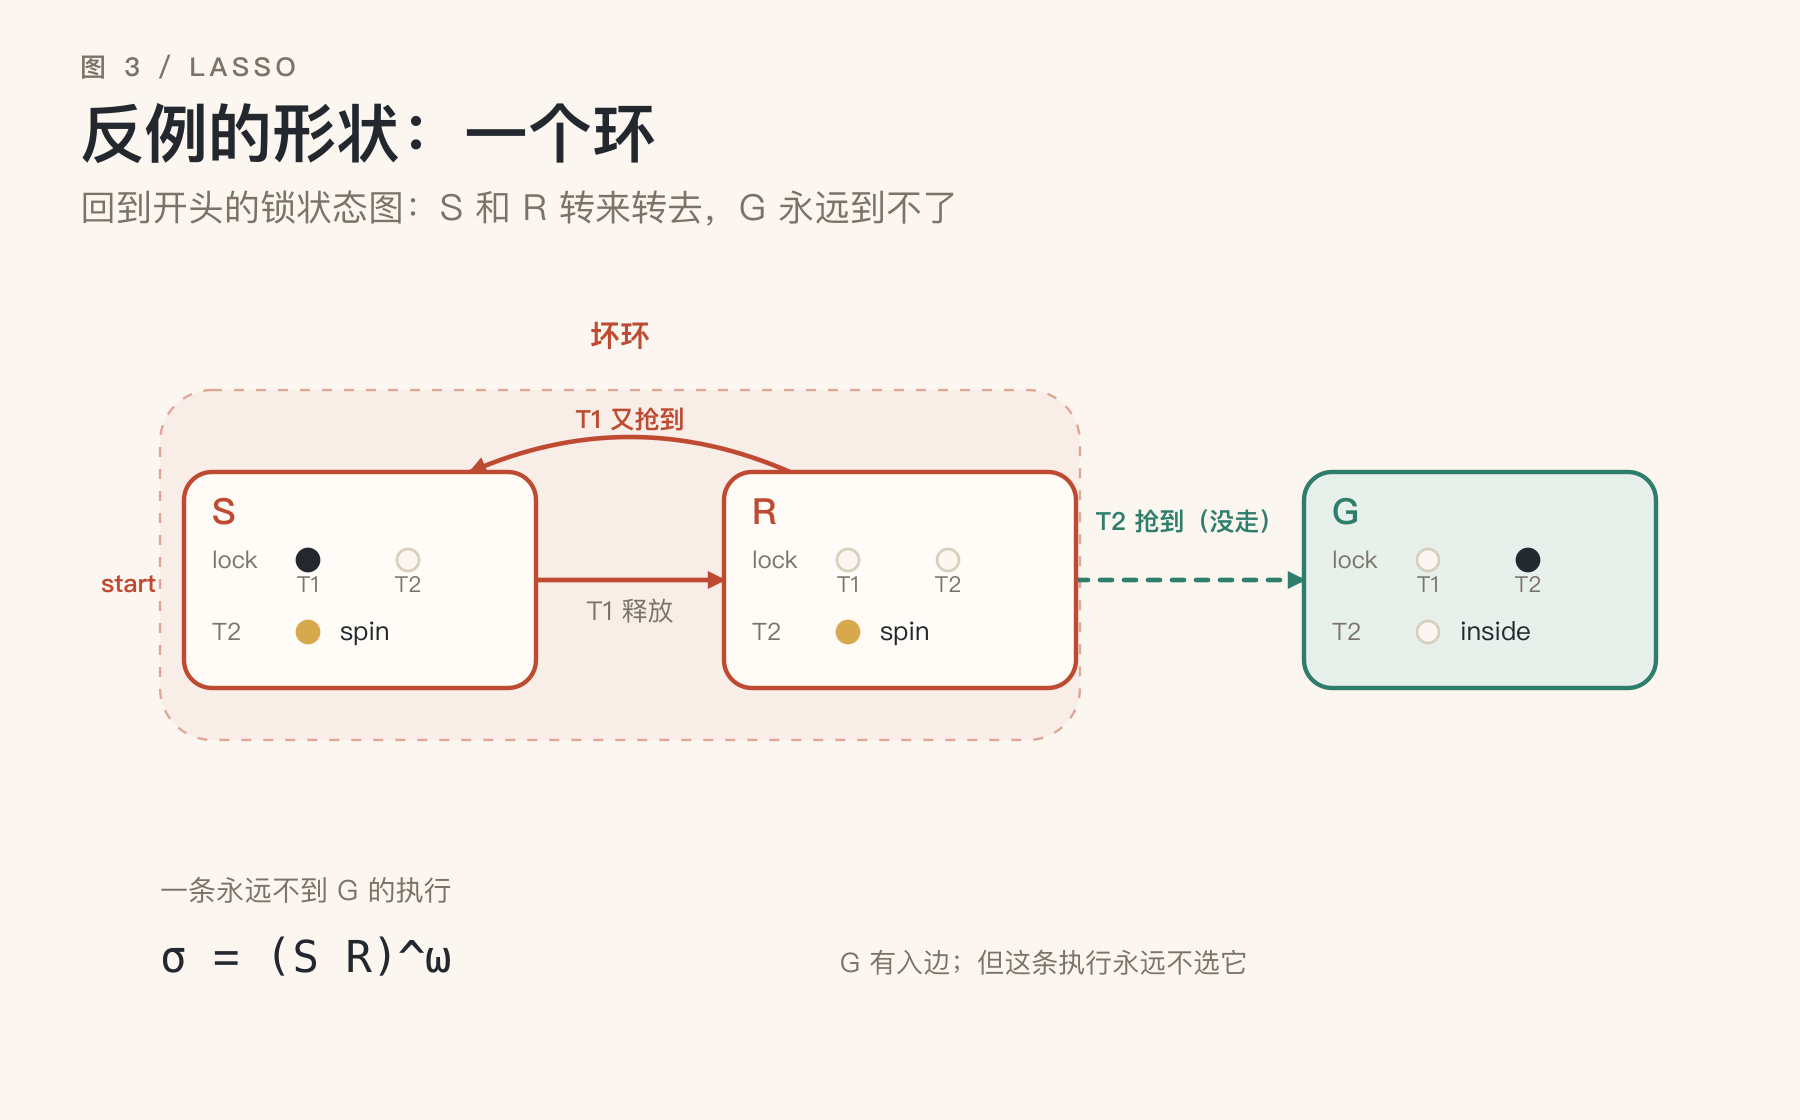
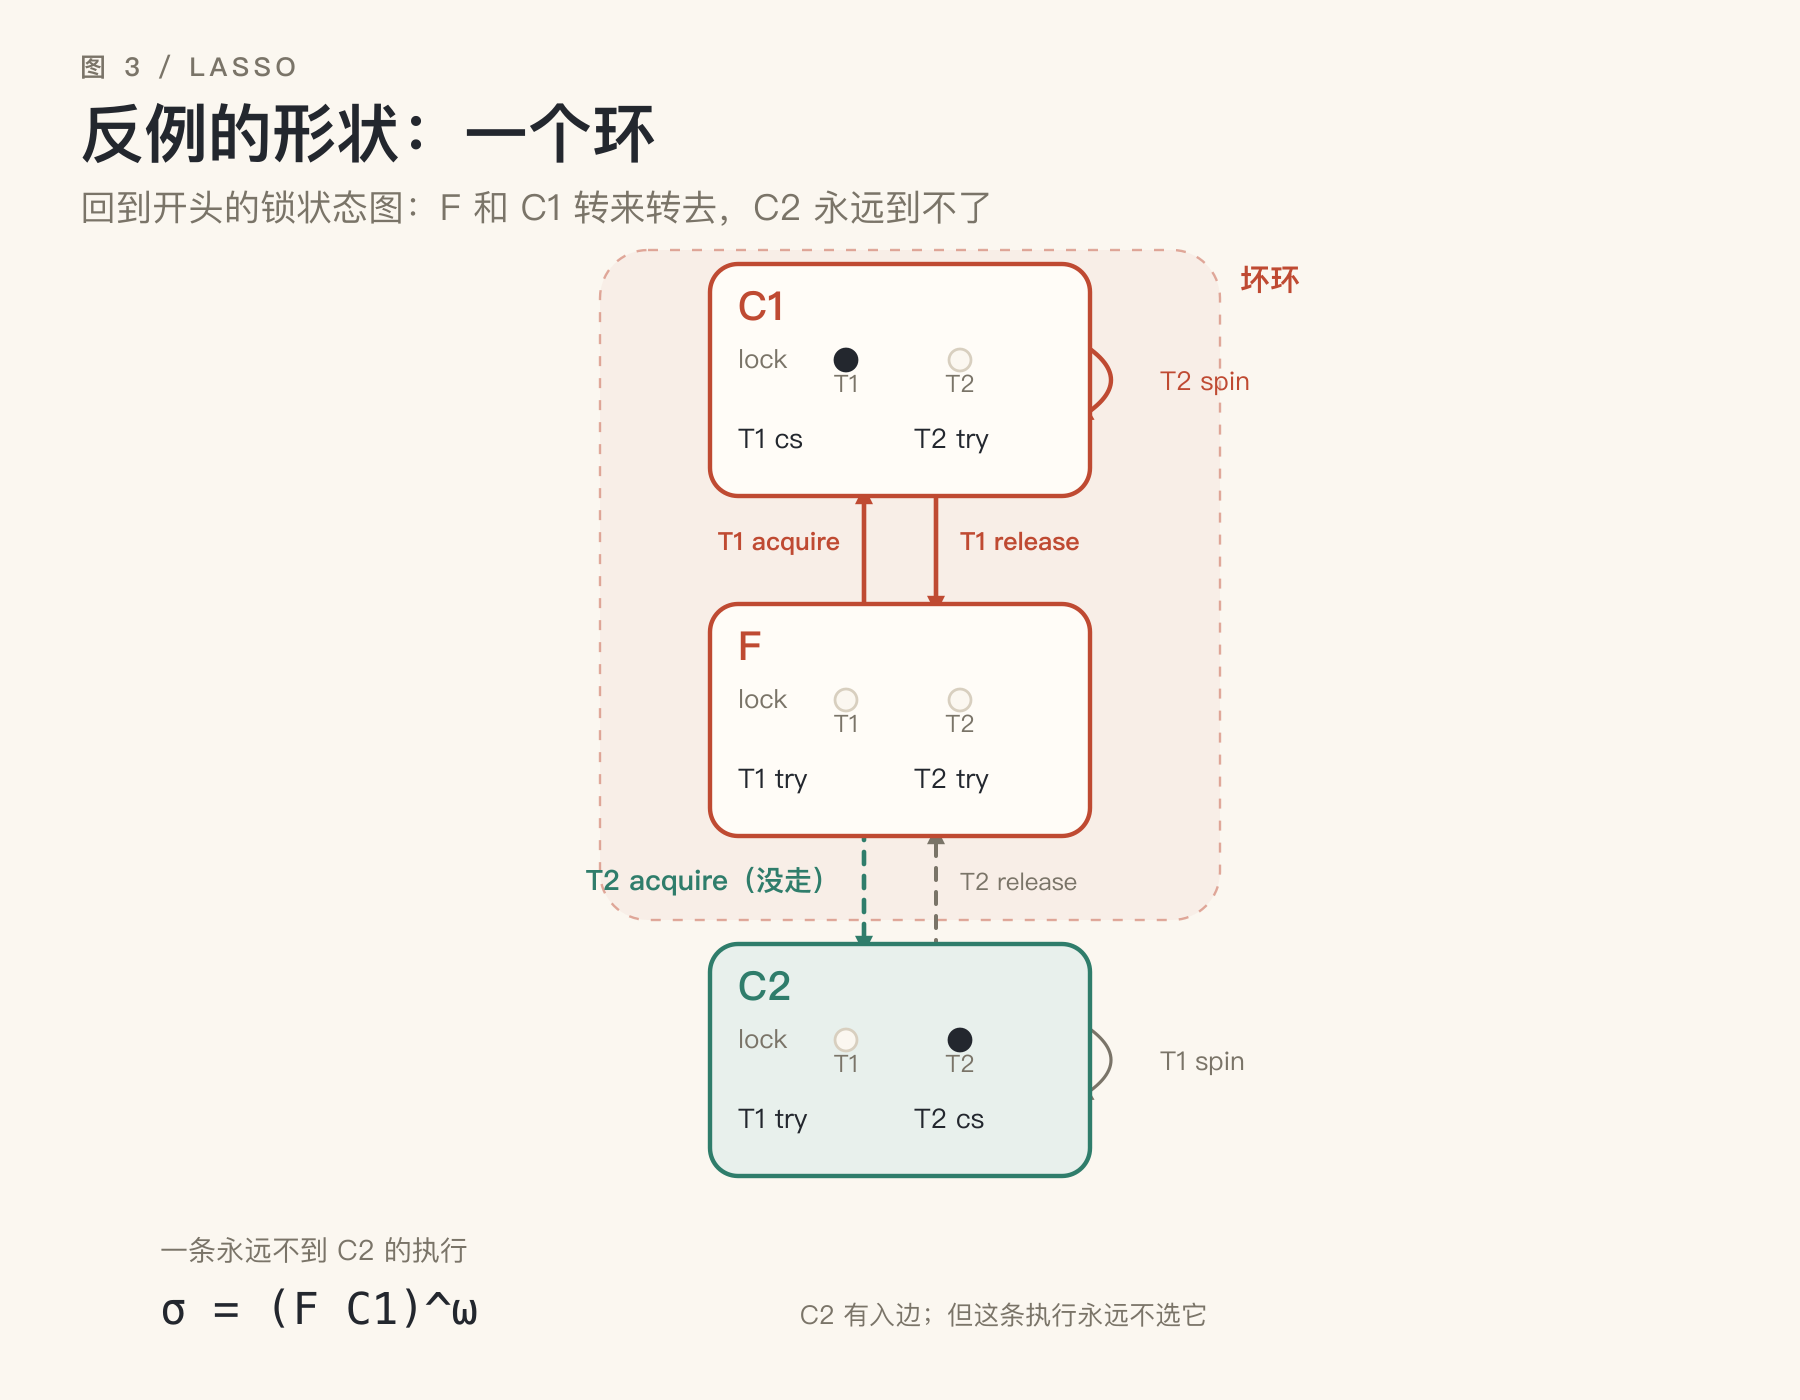
docs: 修正完整锁状态图，补全 CTL 四种路径

diff --git a/figures/build.py b/figures/build.py
@@ -153,28 +153,25 @@ def title(s, t, sub=None):
 
 
 # ---------------------------------------------------------------- lock state box
-def lock_box(s, cx, cy, name, lock, t2, stroke=RED, title_fill=RED,
+def lock_box(s, cx, cy, name, lock, pc1, pc2, stroke=RED, title_fill=RED,
              fill=PANEL, rank=None):
-    w, h = 176, 108
+    w, h = 190, 116
     x, y = cx - w / 2, cy - h / 2
     s.rect(x, y, w, h, rx=14, fill=fill, stroke=stroke, sw=2.2)
-    s.text(x + 14, y + 26, name, size=18, fill=title_fill, weight="700")
-    s.text(x + 14, y + 48, "lock", size=12, fill=MUTED)
-    for lab, dx in (("T1", 62), ("T2", 112)):
-        ox, oy = x + dx, y + 44
+    s.text(x + 14, y + 28, name, size=20, fill=title_fill, weight="700")
+    s.text(x + 14, y + 52, "lock", size=13, fill=MUTED)
+    for lab, dx in (("T1", 68), ("T2", 125)):
+        ox, oy = x + dx, y + 48
         owned = (lock == lab)
         s.circle(ox, oy, 5.5, fill=INK if owned else PAPER,
                  stroke=INK if owned else LINE, sw=1.4)
-        s.text(ox, y + 60, lab, size=11, fill=MUTED, anchor="middle")
-    s.text(x + 14, y + 84, "T2", size=12, fill=MUTED)
-    spin = (t2 == "spin")
-    s.circle(x + 62, y + 80, 5.5, fill=AMBER if spin else PAPER,
-             stroke=AMBER if spin else LINE, sw=1.4)
-    s.text(x + 78, y + 84, "spin" if spin else "inside", size=13, fill=INK)
+        s.text(ox, y + 64, lab, size=12, fill=MUTED, anchor="middle")
+    s.text(x + 14, y + 92, f"T1 {pc1}", size=13.5, fill=INK)
+    s.text(x + 102, y + 92, f"T2 {pc2}", size=13.5, fill=INK)
     if rank is not None:
         bx, by = x + w - 14, y + 14
         s.circle(bx, by, 10.5, fill=PAPER, stroke=stroke, sw=1.3)
-        s.text(bx, by + 4, rank, size=11.5, fill=title_fill,
+        s.text(bx, by + 4, rank, size=12, fill=title_fill,
                anchor="middle", weight="600")
 
 
@@ -237,71 +234,74 @@ def fig1():
 
 # ---------------------------------------------------------------- figure 2
 def fig_open():
-    h = 440
+    h = 700
     s = SVG(W, h)
     kicker(s, "MUTEX / STATE GRAPH")
     title(s, "锁的状态图", "T1 和 T2 抢一把 test-and-set 自旋锁")
 
-    S, R, G = (170, 250), (420, 250), (700, 250)
-    s.rect(70, 175, 460, 155, rx=24, fill=RED, stroke="none", opacity=0.045)
-    s.rect(70, 175, 460, 155, rx=24, fill="none", stroke=RED, sw=1.2,
-           dash="5 6", opacity=0.4)
-    s.text(300, 160, "T2 永远等下去", size=14, fill=RED, anchor="middle", weight="600")
+    C1, F, C2 = (450, 190), (450, 360), (450, 530)
+    s.arrow((432, 306), (432, 244), color=INK, sw=2.2)
+    s.arrow((468, 244), (468, 306), color=INK, sw=2.2)
+    s.arrow((432, 414), (432, 476), color=GREEN, sw=2.2, dash="6 6")
+    s.arrow((468, 476), (468, 414), color=MUTED, sw=2.0, dash="6 6")
+    s.arrow((538, 170), (538, 210), curve=-35, color=MUTED, sw=2)
+    s.arrow((538, 510), (538, 550), curve=-35, color=MUTED, sw=2)
 
-    s.arrow((S[0] + 88, S[1]), (R[0] - 88, R[1]), color=INK, sw=2.2)
-    s.arrow((R[0] - 55, R[1] - 54), (S[0] + 55, S[1] - 54),
-            curve=35, color=INK, sw=2.2)
-    s.arrow((R[0] + 88, R[1]), (G[0] - 88, G[1]), color=GREEN, sw=2.2, dash="6 6")
-    s.text(295, 220, "T1 抢到", size=13.5, fill=INK, anchor="middle", weight="600")
-    s.text(295, 270, "T1 释放", size=13.5, fill=MUTED, anchor="middle")
-    s.text(560, 270, "T2 抢到", size=13.5, fill=GREEN, anchor="middle", weight="600")
+    s.text(420, 275, "T1 acquire", size=14, fill=INK, anchor="end", weight="600")
+    s.text(480, 275, "T1 release", size=13.5, fill=MUTED, anchor="start")
+    s.text(420, 445, "T2 acquire", size=14, fill=GREEN, anchor="end", weight="600")
+    s.text(480, 445, "T2 release", size=13.5, fill=MUTED, anchor="start")
+    s.text(580, 195, "T2 spin", size=13, fill=MUTED)
+    s.text(580, 535, "T1 spin", size=13, fill=MUTED)
 
-    lock_box(s, *S, "S", "T1", "spin")
-    lock_box(s, *R, "R", "free", "spin")
-    lock_box(s, *G, "G", "T2", "inside", stroke=GREEN, title_fill=GREEN,
+    lock_box(s, *C1, "C1", "T1", "cs", "try")
+    lock_box(s, *F, "F", "free", "try", "try")
+    lock_box(s, *C2, "C2", "T2", "try", "cs", stroke=GREEN, title_fill=GREEN,
              fill="#E8F0EC")
 
-    s.text(70, 390, "● = 真（持有 / 等待）    ○ = 假（空闲 / 运行）",
-           size=12.5, fill=MUTED)
+    s.text(60, 660, "lock：● = 持有，○ = 空闲；T1/T2：try = 自旋，cs = 临界区",
+           size=12, fill=MUTED)
     s.save("lock-state-graph")
 
 
 def fig2():
-    h = 560
+    h = 700
     s = SVG(W, h)
     kicker(s, "图 3 / LASSO")
     title(s, "反例的形状：一个环",
-          "回到开头的锁状态图：S 和 R 转来转去，G 永远到不了")
+          "回到开头的锁状态图：F 和 C1 转来转去，C2 永远到不了")
 
-    S, R, G = (180, 290), (450, 290), (740, 290)
-    s.rect(80, 195, 460, 175, rx=26, fill=RED, stroke="none", opacity=0.05)
-    s.rect(80, 195, 460, 175, rx=26, fill="none", stroke=RED, sw=1.2,
+    C1, F, C2 = (450, 190), (450, 360), (450, 530)
+    s.rect(300, 125, 310, 335, rx=24, fill=RED, stroke="none", opacity=0.05)
+    s.rect(300, 125, 310, 335, rx=24, fill="none", stroke=RED, sw=1.2,
            dash="5 6", opacity=0.45)
-    s.text(310, 173, "坏环", size=15, fill=RED, anchor="middle", weight="700")
+    s.text(620, 145, "坏环", size=15, fill=RED, anchor="start", weight="700")
 
-    s.arrow((S[0] + 88, S[1]), (R[0] - 88, R[1]), color=RED, sw=2.3)
-    s.arrow((R[0] - 55, R[1] - 54), (S[0] + 55, S[1] - 54),
-            curve=35, color=RED, sw=2.3)
-    s.arrow((R[0] + 88, R[1]), (G[0] - 88, G[1]), color=GREEN, sw=2.3, dash="6 6")
+    s.arrow((432, 306), (432, 244), color=RED, sw=2.3)
+    s.arrow((468, 244), (468, 306), color=RED, sw=2.3)
+    s.arrow((432, 414), (432, 476), color=GREEN, sw=2.3, dash="6 6")
+    s.arrow((468, 476), (468, 414), color=MUTED, sw=2.0, dash="6 6")
+    s.arrow((538, 170), (538, 210), curve=-35, color=RED, sw=2.2)
+    s.arrow((538, 510), (538, 550), curve=-35, color=MUTED, sw=1.6)
 
-    s.text(315, 214, "T1 又抢到", size=12.5, fill=RED, anchor="middle", weight="600")
-    s.text(315, 310, "T1 释放", size=13, fill=MUTED, anchor="middle")
-    s.text(595, 265, "T2 抢到（没走）", size=12.5, fill=GREEN,
-           anchor="middle", weight="600")
+    s.text(420, 275, "T1 acquire", size=12.5, fill=RED, anchor="end", weight="600")
+    s.text(480, 275, "T1 release", size=12.5, fill=RED, anchor="start", weight="600")
+    s.text(420, 445, "T2 acquire（没走）", size=14, fill=GREEN, anchor="end", weight="600")
+    s.text(480, 445, "T2 release", size=12, fill=MUTED, anchor="start")
+    s.text(580, 195, "T2 spin", size=13, fill=RED)
+    s.text(580, 535, "T1 spin", size=13, fill=MUTED)
 
-    lock_box(s, *S, "S", "T1", "spin")
-    lock_box(s, *R, "R", "free", "spin")
-    lock_box(s, *G, "G", "T2", "inside", stroke=GREEN, title_fill=GREEN,
+    lock_box(s, *C1, "C1", "T1", "cs", "try")
+    lock_box(s, *F, "F", "free", "try", "try")
+    lock_box(s, *C2, "C2", "T2", "try", "cs", stroke=GREEN, title_fill=GREEN,
              fill="#E8F0EC")
-    s.text(78, 296, "start", size=12.5, fill=RED, anchor="end", weight="600")
 
-    s.text(80, 450, "一条永远不到 G 的执行", size=14, fill=MUTED)
-    s.text(80, 486, "σ = (S R)^ω", size=22, fill=INK, family=MONO)
-    s.text(420, 486, "G 有入边；但这条执行永远不选它", size=13.5, fill=MUTED)
+    s.text(80, 630, "一条永远不到 C2 的执行", size=14, fill=MUTED)
+    s.text(80, 662, "σ = (F C1)^ω", size=22, fill=INK, family=MONO)
+    s.text(400, 662, "C2 有入边；但这条执行永远不选它", size=13, fill=MUTED)
     s.save("03-lasso")
 
 
-# ---------------------------------------------------------------- figure 3
 def fig3():
     h = 565
     s = SVG(W, h)
@@ -357,35 +357,38 @@ def fig3():
 
 # ---------------------------------------------------------------- figure 4
 def fig4():
-    h = 560
+    h = 710
     s = SVG(W, h)
     kicker(s, "图 5 / ATTRACTOR")
     title(s, "点亮：从目标倒着长",
-          "同一张锁状态图：只有 G 被点亮")
+          "同一张锁状态图：只有 C2 被点亮")
 
-    S, R, G = (180, 290), (450, 290), (740, 290)
-    s.rect(80, 210, 460, 160, rx=26, fill=RED, stroke="none", opacity=0.05)
-    s.rect(80, 210, 460, 160, rx=26, fill="none", stroke=RED, sw=1.2,
+    C1, F, C2 = (450, 190), (450, 360), (450, 530)
+    s.rect(300, 125, 310, 335, rx=24, fill=RED, stroke="none", opacity=0.05)
+    s.rect(300, 125, 310, 335, rx=24, fill="none", stroke=RED, sw=1.2,
            dash="5 6", opacity=0.45)
-    s.text(310, 188, "点不亮：坏环", size=15, fill=RED, anchor="middle", weight="700")
+    s.text(620, 145, "点不亮：坏环", size=15, fill=RED, anchor="start", weight="700")
 
-    s.arrow((S[0] + 88, S[1]), (R[0] - 88, R[1]), color=RED, sw=2.3)
-    s.arrow((R[0] - 55, R[1] - 54), (S[0] + 55, S[1] - 54),
-            curve=35, color=RED, sw=2.3)
-    s.arrow((R[0] + 88, R[1]), (G[0] - 88, G[1]), color=MUTED, sw=2.0, dash="6 6")
-    s.text(595, 265, "有出口，但没走", size=12.5, fill=MUTED,
-           anchor="middle")
+    s.arrow((432, 306), (432, 244), color=RED, sw=2.3)
+    s.arrow((468, 244), (468, 306), color=RED, sw=2.3)
+    s.arrow((432, 414), (432, 476), color=MUTED, sw=2.0, dash="6 6")
+    s.arrow((468, 476), (468, 414), color=MUTED, sw=1.6, dash="6 6")
+    s.arrow((538, 170), (538, 210), curve=-35, color=RED, sw=2.0)
+    s.arrow((538, 510), (538, 550), curve=-35, color=MUTED, sw=1.6)
 
-    lock_box(s, *S, "S", "T1", "spin", rank="∞")
-    lock_box(s, *R, "R", "free", "spin", rank="∞")
-    lock_box(s, *G, "G", "T2", "inside", stroke=GREEN, title_fill=GREEN,
+    s.text(420, 445, "有出口，但没走", size=13, fill=MUTED, anchor="end")
+    s.text(580, 195, "T2 spin", size=13, fill=RED)
+
+    lock_box(s, *C1, "C1", "T1", "cs", "try", rank="∞")
+    lock_box(s, *F, "F", "free", "try", "try", rank="∞")
+    lock_box(s, *C2, "C2", "T2", "try", "cs", stroke=GREEN, title_fill=GREEN,
              fill="#E8F0EC", rank="0")
 
-    s.text(80, 440, "先点亮 G（0 步）。只有“所有后继都亮了”的点才会亮。",
+    s.text(80, 620, "先点亮 C2（0 步）。只有“所有后继都亮了”的点才会亮。",
            size=13.5, fill=MUTED)
-    s.text(80, 466, "R 有一条边回到 S，S 又回到 R；所以 S、R 都停在 ∞。",
+    s.text(80, 646, "F 有一条边回到 C1，C1 又回到 F；所以 F、C1 都停在 ∞。",
            size=13.5, fill=MUTED)
-    s.text(80, 510, "0 = 目标    ∞ = 点不亮", size=12.5, fill=MUTED, spacing=1)
+    s.text(80, 680, "0 = 目标    ∞ = 点不亮", size=12.5, fill=MUTED, spacing=1)
     s.save("05-peeling")
 
 
@@ -588,42 +591,46 @@ def fig_safety():
 
 # ---------------------------------------------------------------- CTL paths
 def fig_ctl():
-    h = 400
+    h = 720
     s = SVG(W, h)
     kicker(s, "CTL / PATHS")
-    title(s, "EF 与 AF：一条路，还是所有路",
-          "同一个状态图，换一个路径量词，答案就不同")
+    title(s, "EF / AF / EG / AG：四种路径量词",
+          "同一棵计算树，换一个量词，答案就不同")
 
-    def panel(x0, mode):
-        s.text(x0 + 20, 162, mode, size=20, fill=INK, weight="700")
-        ok = (mode == "EF G")
+    def panel(x0, y0, mode, note, ok, c2c, c1c):
+        s.text(x0 + 20, y0 + 24, mode, size=20, fill=INK, weight="700")
         badge = (GREEN, "✓ 成立") if ok else (RED, "✗ 不成立")
-        s.text(x0 + 330, 162, badge[1], size=14, fill=badge[0],
+        s.text(x0 + 380, y0 + 24, badge[1], size=14, fill=badge[0],
                anchor="end", weight="700")
 
-        R = (x0 + 195, 215)
-        Gp = (x0 + 105, 305)
-        Sp = (x0 + 285, 305)
-        s.arrow((R[0] - 12, R[1] + 16), (Gp[0] + 12, Gp[1] - 16),
-                color=GREEN, sw=2.2)
-        s.arrow((R[0] + 12, R[1] + 16), (Sp[0] - 12, Sp[1] - 16),
-                color=(MUTED if ok else RED), sw=2.2)
-        s.arrow((Sp[0] + 6, Sp[1] - 16), (R[0] + 20, R[1] + 8),
-                curve=34, color=(MUTED if ok else RED), sw=1.6, dash="4 5")
-        s.text(x0 + 292, 258, "…", size=18, fill=(MUTED if ok else RED))
+        F = (x0 + 200, y0 + 100)
+        C2 = (x0 + 95, y0 + 205)
+        C1 = (x0 + 305, y0 + 205)
 
-        s.circle(*R, 22, fill=PAPER, stroke=INK, sw=2)
-        s.text(R[0], R[1] + 6, "R", size=16, fill=INK, anchor="middle", weight="600")
-        s.circle(*Gp, 22, fill=GREEN, stroke=GREEN, sw=2)
-        s.text(Gp[0], Gp[1] + 6, "G", size=16, fill="#FFFFFF", anchor="middle", weight="600")
-        s.circle(*Sp, 22, fill=PAPER, stroke=(MUTED if ok else RED), sw=2)
-        s.text(Sp[0], Sp[1] + 6, "S", size=16, fill=INK, anchor="middle", weight="600")
+        s.arrow((F[0] - 12, F[1] + 16), (C2[0] + 12, C2[1] - 16),
+                color=c2c, sw=2.1)
+        s.arrow((F[0] + 12, F[1] + 16), (C1[0] - 12, C1[1] - 16),
+                color=c1c, sw=2.1)
+        s.arrow((C1[0] + 6, C1[1] - 16), (F[0] + 20, F[1] + 8),
+                curve=32, color=c1c, sw=1.5, dash="4 5")
+        s.text(x0 + 290, y0 + 146, "…", size=18, fill=c1c)
 
-        note = "存在一条路到 G" if ok else "有一条路永远到不了 G"
-        s.text(x0 + 20, 360, note, size=14, fill=badge[0])
+        s.circle(*F, 20, fill=PAPER, stroke=INK, sw=2)
+        s.text(F[0], F[1] + 6, "F", size=16, fill=INK, anchor="middle", weight="600")
 
-    panel(40, "EF G")
-    panel(470, "AF G")
+        for pos, lab, col in ((C2, "C2", c2c), (C1, "C1", c1c)):
+            fill = col if col in (GREEN, RED) else PAPER
+            txt = "#FFFFFF" if fill in (GREEN, RED) else INK
+            s.circle(*pos, 20, fill=fill, stroke=col, sw=2)
+            s.text(pos[0], pos[1] + 5, lab, size=14, fill=txt,
+                   anchor="middle", weight="600")
+
+        s.text(x0 + 20, y0 + 258, note, size=14, fill=badge[0])
+
+    panel(40, 120, "EF C2", "有一条路到 C2", True, GREEN, MUTED)
+    panel(460, 120, "AF C2", "有一条路永远到不了 C2", False, GREEN, RED)
+    panel(40, 400, "EG ¬C2", "有一条路永远避开 C2", True, MUTED, GREEN)
+    panel(460, 400, "AG ¬C2", "有一条路会到 C2", False, RED, GREEN)
     s.save("ctl-paths")
 
 
